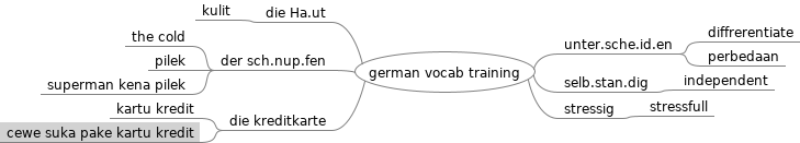
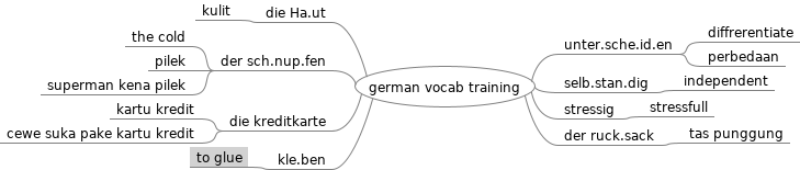
update lecture notes

Changed region(s): [[0.0, 0.1399, 1.0, 1.0], [0.2188, 0.028, 0.4375, 0.2238]]

diff --git a/golang web.mm b/golang web.mm
@@ -1,0 +1,16 @@
+<map version="1.1.0">
+<!-- To view this file, download free mind mapping software FreeMind from http://freemind.sourceforge.net -->
+<node CREATED="1645978345703" ID="ID_952029215" MODIFIED="1645978353328" TEXT="golang web">
+<node CREATED="1645978353794" ID="ID_1264128134" MODIFIED="1645978358856" POSITION="right" TEXT="struktur">
+<node CREATED="1645978359085" ID="ID_540691201" MODIFIED="1645978364226" TEXT="cmd">
+<node CREATED="1645978373316" ID="ID_836199137" MODIFIED="1645978374993" TEXT="folder"/>
+<node CREATED="1645978375265" ID="ID_1733322604" MODIFIED="1645978376710" TEXT="folder"/>
+</node>
+<node CREATED="1645978364475" ID="ID_1890796493" MODIFIED="1645978366250" TEXT="pkg">
+<node CREATED="1645978368055" ID="ID_79623475" MODIFIED="1645978370084" TEXT="folder"/>
+<node CREATED="1645978370337" ID="ID_869269873" MODIFIED="1645978371559" TEXT="folder"/>
+</node>
+<node CREATED="1645978378054" ID="ID_1576394384" MODIFIED="1645978384313" TEXT="go.mod"/>
+</node>
+</node>
+</map>

diff --git a/competitive programming.mm b/competitive programming.mm
@@ -1,0 +1,11 @@
+<map version="1.1.0">
+<!-- To view this file, download free mind mapping software FreeMind from http://freemind.sourceforge.net -->
+<node CREATED="1646040817660" ID="ID_1566415613" MODIFIED="1646040829106" TEXT="competitive programming">
+<node CREATED="1646040829377" ID="ID_839731922" MODIFIED="1646040831524" POSITION="right" TEXT="graph">
+<node CREATED="1646040831781" ID="ID_493688574" MODIFIED="1646040833045" TEXT="tree">
+<node CREATED="1646040833327" ID="ID_1104164520" MODIFIED="1646040841278" TEXT="dfs(node, prev)"/>
+<node CREATED="1646040844826" ID="ID_451241589" MODIFIED="1646040854493" TEXT="if visited == number node"/>
+</node>
+</node>
+</node>
+</map>

diff --git a/german vocab training.mm b/german vocab training.mm
@@ -23,5 +23,11 @@
 <node CREATED="1645926498552" ID="ID_1165176683" MODIFIED="1645926501461" TEXT="kartu kredit"/>
 <node CREATED="1645926501717" ID="ID_1774524028" MODIFIED="1645926509448" TEXT="cewe suka pake kartu kredit"/>
 </node>
+<node CREATED="1646020808264" ID="ID_135170131" MODIFIED="1646020812997" POSITION="right" TEXT="der ruck.sack">
+<node CREATED="1646020813273" ID="ID_1871648382" MODIFIED="1646020821586" TEXT="tas punggung"/>
+</node>
+<node CREATED="1646020834869" ID="ID_580742527" MODIFIED="1646020838045" POSITION="left" TEXT="kle.ben">
+<node CREATED="1646020838340" ID="ID_663405053" MODIFIED="1646020840215" TEXT="to glue"/>
+</node>
 </node>
 </map>
